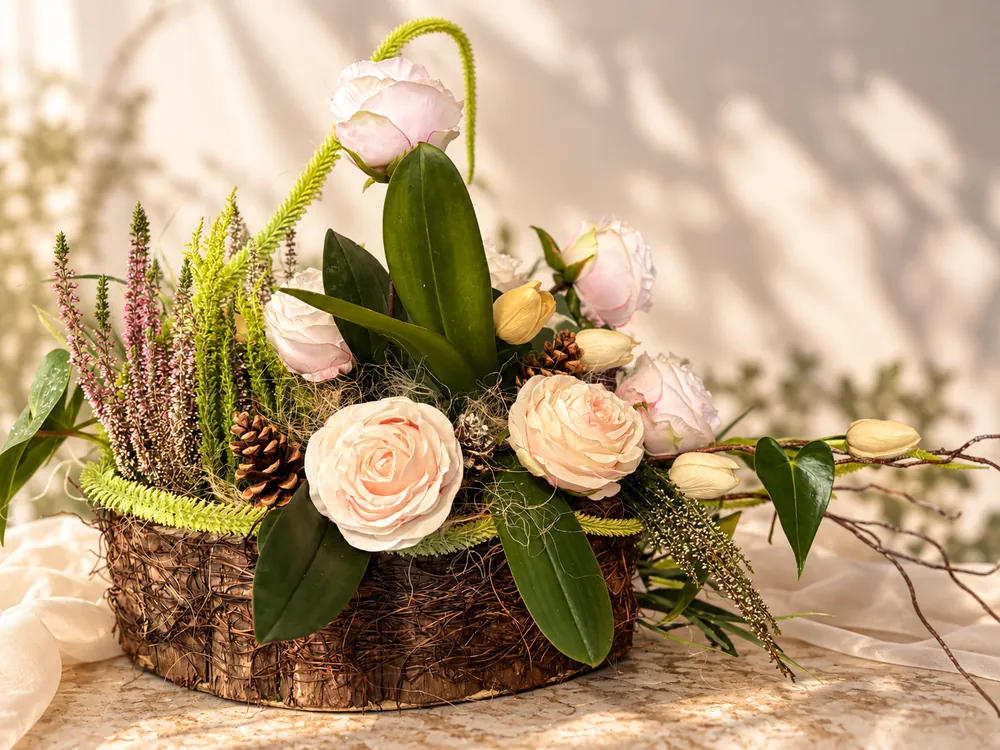
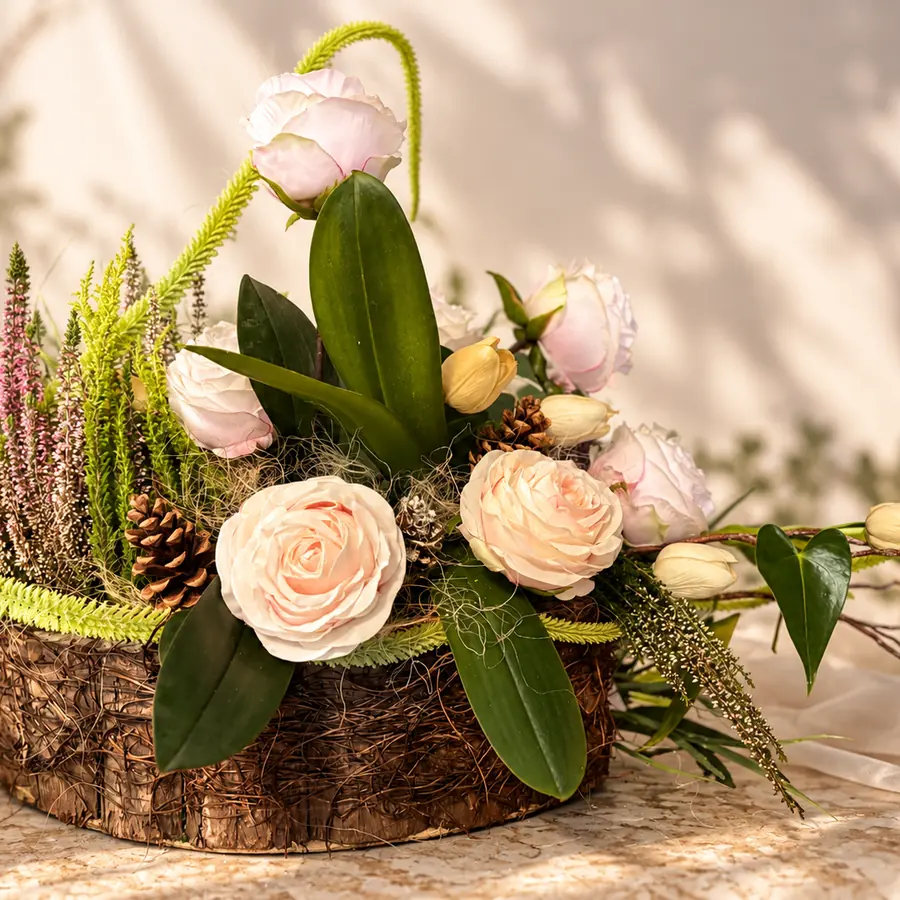
Katalog: wszystkie zdjęcia w proporcji 1:1, nowe zdjęcia 11-24
- zdjęcia katalogu 1-24 w kwadracie 900x900 (WebP), kadrowane wg proporcji
  oryginału; najszersze kompozycje dopełnione lustrzanym tłem
- karta katalogu i szkielet ładowania dopasowane do proporcji 1:1

diff --git a/css/styles.css b/css/styles.css
@@ -707,7 +707,7 @@ h2 {
 .product__image {
   width: 100%;
   height: auto;
-  aspect-ratio: 4 / 3;
+  aspect-ratio: 1 / 1;
   object-fit: cover;
 }
 
@@ -798,7 +798,7 @@ h2 {
 }
 
 .product--skeleton {
-  min-height: 430px;
+  aspect-ratio: 1 / 1.4;                 /* zdjęcie 1:1 + treść karty, żeby po załadowaniu układ nie skakał */
   border: 0;
   background: linear-gradient(90deg, #f3ece2 25%, #fbf7f1 50%, #f3ece2 75%);
   background-size: 200% 100%;

diff --git a/js/catalog.js b/js/catalog.js
@@ -8,7 +8,7 @@
   const FETCH_TIMEOUT_MS = 15000;
   const SKELETON_COUNT = 3;
   const PRICE_STEP = 50;
-  const PRODUCT_IMAGE_SIZE = { width: 640, height: 480 };   // proporcje 4:3 jak w CSS (zapobiega skokom układu)
+  const PRODUCT_IMAGE_SIZE = { width: 640, height: 640 };   // proporcje 1:1 jak w CSS (zapobiega skokom układu)
 
   const IMAGE_DIR = "assets/images/katalog/";
   const PLACEHOLDERS = [
